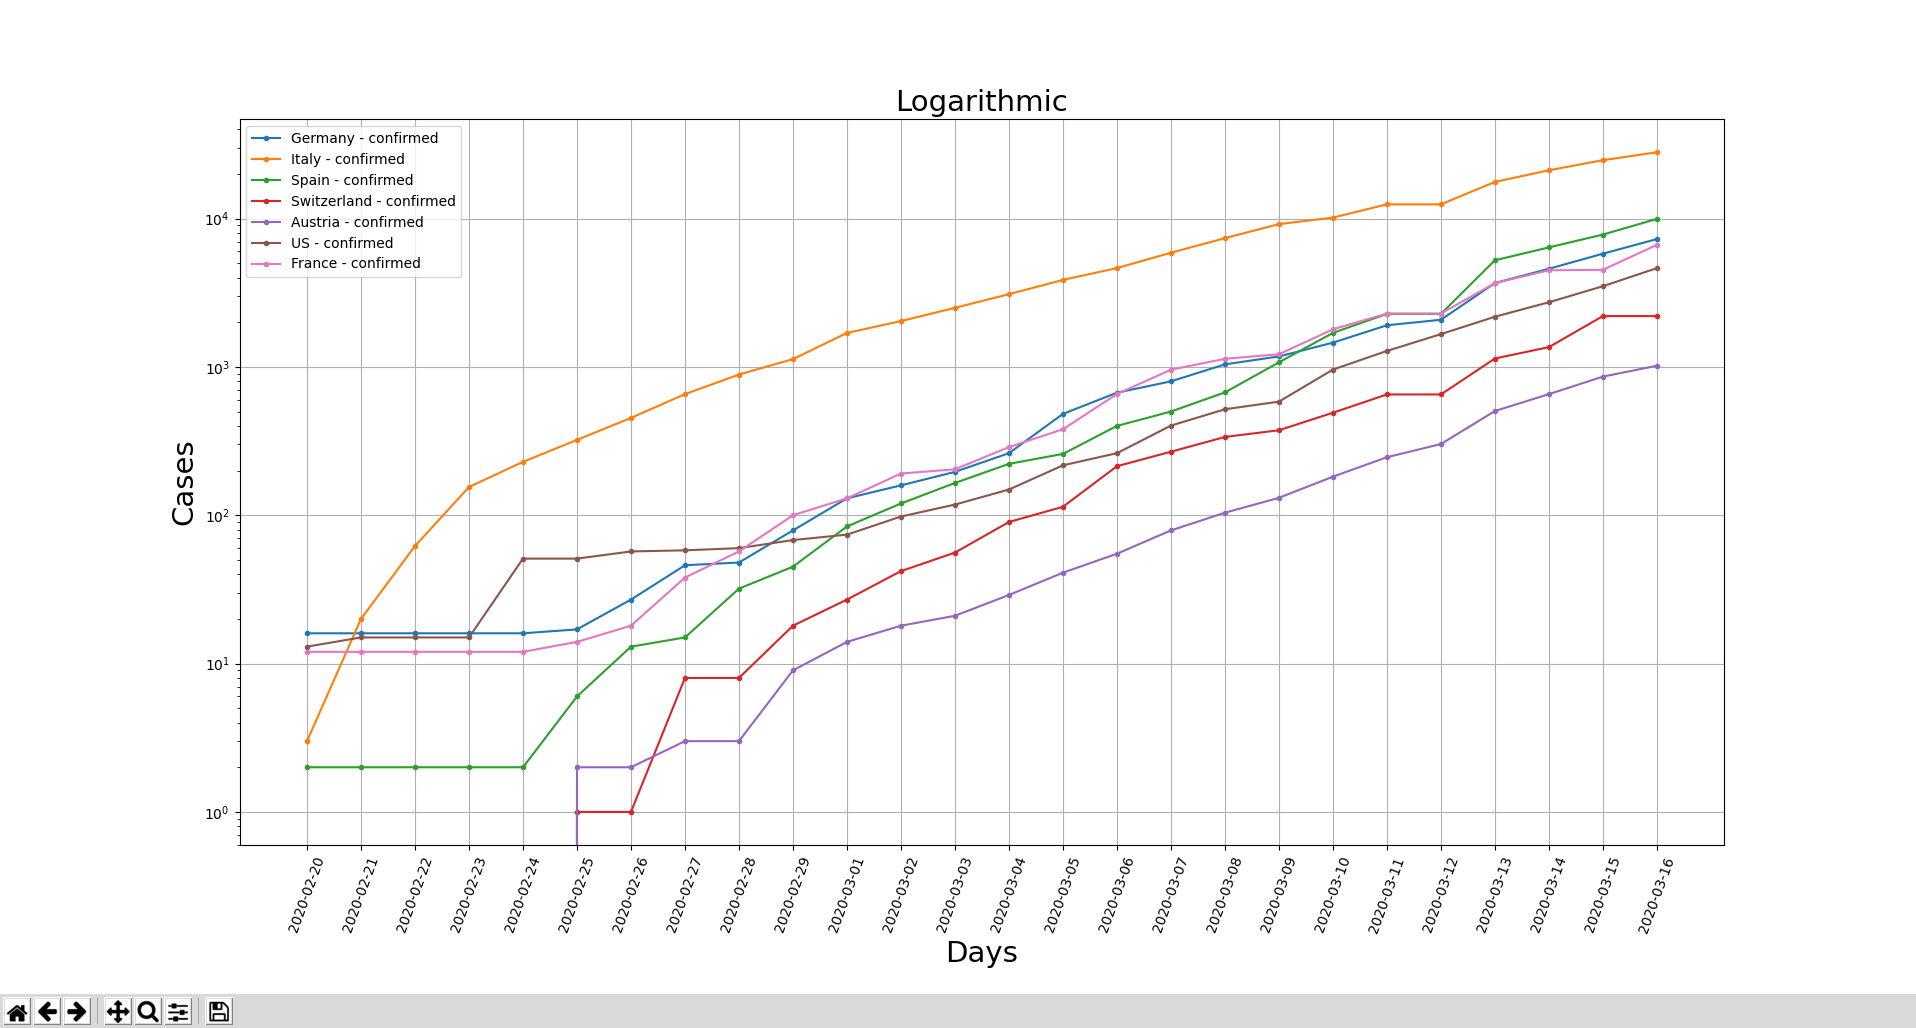
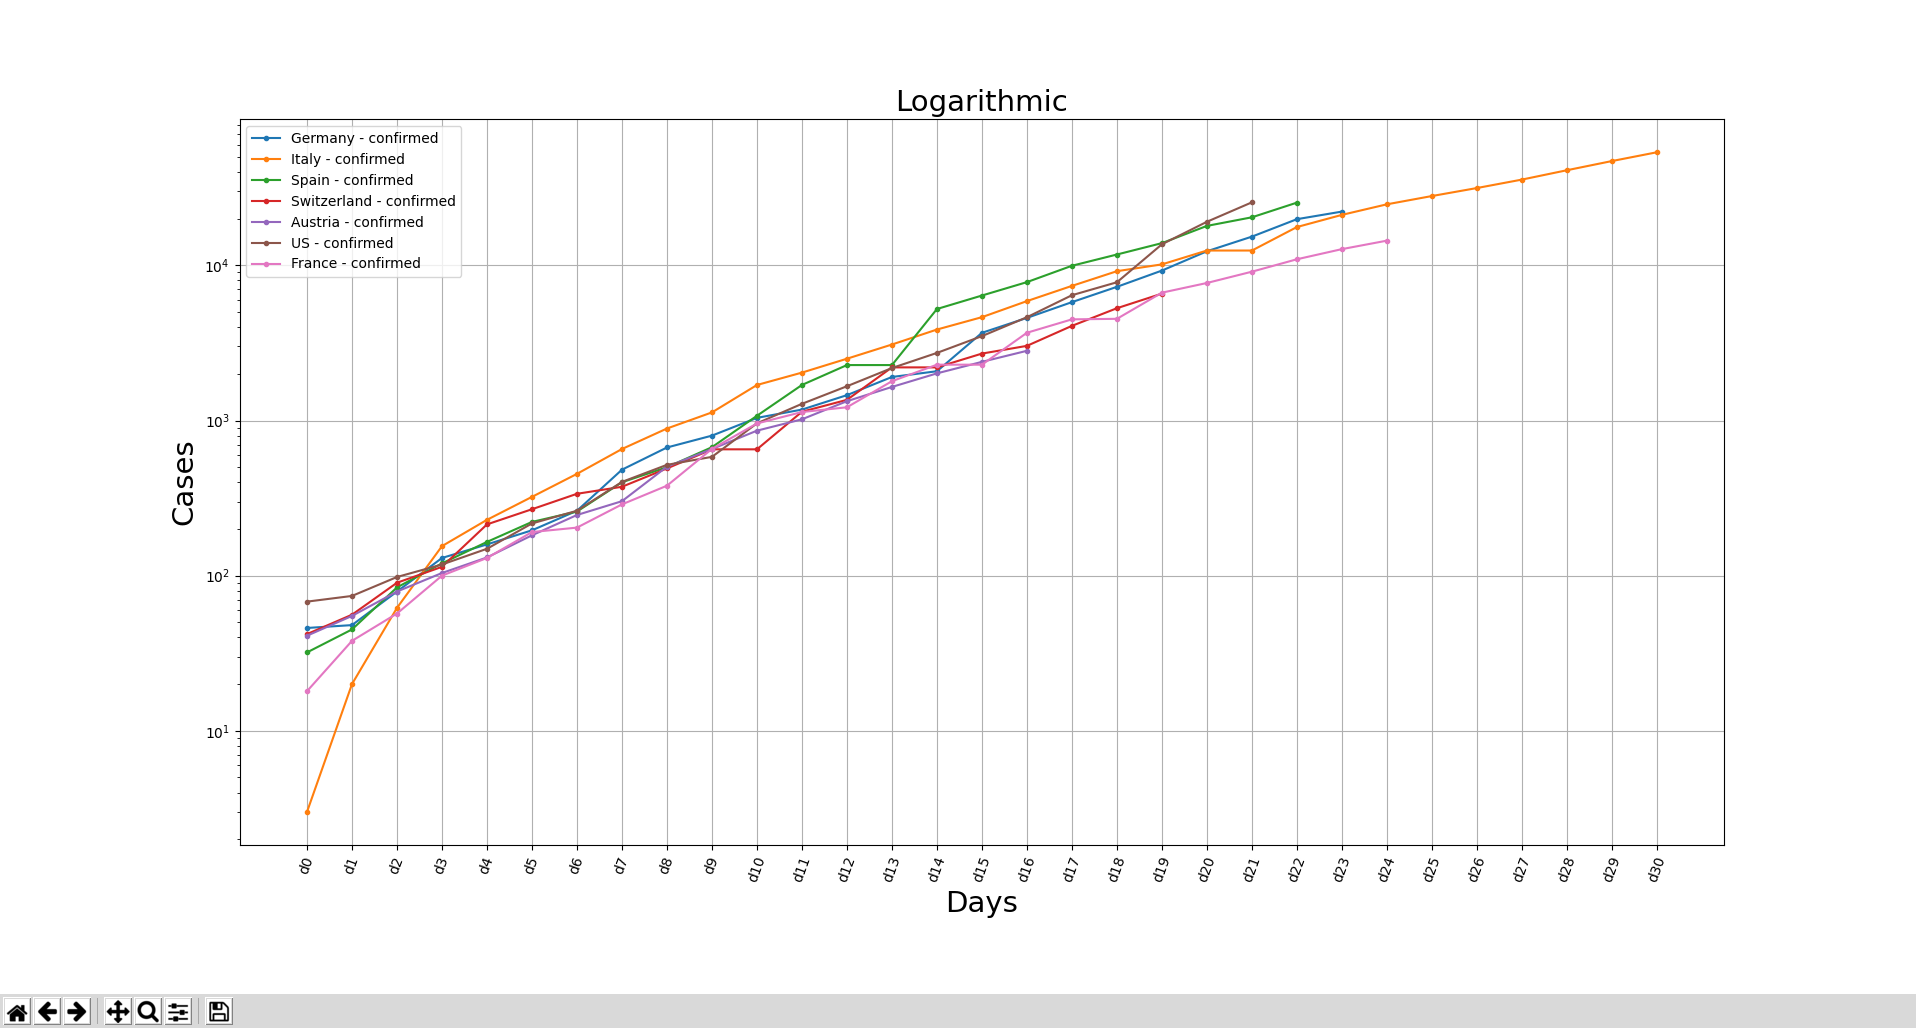
feat: add --relative for showing cases per 100000 residents

diff --git a/covid_19_plot.py b/covid_19_plot.py
@@ -19,7 +19,15 @@ CSV_PATHS = {
     "deaths": f"{CSV_DIR}/time_series_19-covid-Deaths.csv",
     "recovered": f"{CSV_DIR}/time_series_19-covid-Recovered.csv",
 }
+POP_CSV = f"{DIR_PATH}/data/population.csv"
 COMPARE_CONSTANT = 100
+
+POPULATION = {}
+
+with open(POP_CSV) as csvfile:
+    reader = csv.DictReader(csvfile)
+    for row in reader:
+        POPULATION[row["Country"]] = int(row["Value"])
 
 
 def group(number):
@@ -83,6 +91,12 @@ def parse_arguments(args):
         help="show graph for each province/state",
     )
     parser.add_argument(
+        "-e",
+        "--relative",
+        action="store_true",
+        help="show cases per 100'000 residents (only supported for some countries)",
+    )
+    parser.add_argument(
         "--list-countries", action="store_true", help="list available countries/regions"
     )
     args = parser.parse_args(args)
@@ -95,16 +109,19 @@ def parse_arguments(args):
     if args.compare and not args.confirmed:
         raise parser.error("Comparison is only supported based on confirmed cases.")
 
+    if args.relative and args.split_by_state:
+        raise parser.error("--split-by-state with --relative is not supported.")
+
     return args
 
 
-def get_data_from_file(file, countries, split_by_state, startdate):
+def get_data_from_file(file, args):
     data = {}
     with open(file) as csvfile:
         reader = csv.DictReader(csvfile)
         for row in reader:
             area = row["Country/Region"].strip()
-            if area in countries:
+            if area in args.countries:
                 state = row.pop("Province/State").strip()
                 country = row.pop("Country/Region").strip()
                 row.pop("Lat")
@@ -115,16 +132,21 @@ def get_data_from_file(file, countries, split_by_state, startdate):
                     # can't use strptime with non-padded month
                     month, day, year = date.split("/")
                     date = datetime.date(int(f"20{year}"), int(month), int(day))
-                    if startdate and date < startdate:
+                    if args.startdate and date < args.startdate:
                         continue
                     x.append(date)
-                    y.append(int(count))
-                if split_by_state:
+                    y_value = int(count)
+                    if args.relative:
+                        if area not in POPULATION:
+                            raise Exception(f'"{area}" not found in population.csv!')
+                        y_value = y_value / (POPULATION[area] / 100000)
+                    y.append(y_value)
+                if args.split_by_state:
                     if state:
                         area = f"{country} - {state}"
                 if area not in data:
                     data[area] = {}
-                if not data[area] or split_by_state:
+                if not data[area] or args.split_by_state:
                     data[area] = {"x": x, "y": y}
                     continue
                 for ct, i in enumerate(y):
@@ -132,7 +154,7 @@ def get_data_from_file(file, countries, split_by_state, startdate):
     return data
 
 
-def get_data(countries, args):
+def get_data(args):
     """
     Collects data from CSVs
 
@@ -159,21 +181,15 @@ def get_data(countries, args):
     data = {}
 
     if args.confirmed:
-        sub_data = get_data_from_file(
-            CSV_PATHS["confirmed"], countries, args.split_by_state, args.startdate
-        )
+        sub_data = get_data_from_file(CSV_PATHS["confirmed"], args)
         add_to_data(sub_data, "confirmed")
 
     if args.deaths:
-        sub_data = get_data_from_file(
-            CSV_PATHS["deaths"], countries, args.split_by_state, args.startdate
-        )
+        sub_data = get_data_from_file(CSV_PATHS["deaths"], args)
         add_to_data(sub_data, "deaths")
 
     if args.recovered:
-        sub_data = get_data_from_file(
-            CSV_PATHS["recovered"], countries, args.split_by_state, args.startdate
-        )
+        sub_data = get_data_from_file(CSV_PATHS["recovered"], args)
         add_to_data(sub_data, "recovered")
 
     return data
@@ -264,7 +280,10 @@ def setup_plot(args):
         plt.title("Logarithmic", fontdict=font)
 
     plt.xlabel("Days", fontdict=font)
-    plt.ylabel("Cases", fontdict=font)
+    cases_suffix = ""
+    if args.relative:
+        cases_suffix = " per 100'000"
+    plt.ylabel(f"Cases{cases_suffix}", fontdict=font)
 
 
 def plot(data, meta, args):
@@ -302,7 +321,7 @@ def plot(data, meta, args):
             if args.annotate:
                 for ct, i in enumerate(area_category_data["y"]):
                     plt.annotate(
-                        group(i),
+                        group(round(i)),
                         (area_category_data["x"][ct], i),
                         bbox=dict(facecolor="white", alpha=0.30),
                     )
@@ -323,7 +342,7 @@ def main():
         print("\n".join(get_countries()))
         sys.exit(0)
 
-    data = get_data(args.countries, args)
+    data = get_data(args)
 
     if not data:
         print(

diff --git a/README.md b/README.md
@@ -41,7 +41,9 @@ pip install PyQt5
 ## Usage
 
 ```
-usage: covid_19_plot.py [-h] [-l] [-c] [-d] [-r] [-a] [-s STARTDATE] [-m] [--annotate] [--split-by-state] [--list-countries] [countries [countries ...]]
+usage: covid_19_plot.py [-h] [-l] [-c] [-d] [-r] [-a] [-s STARTDATE] [-m] [--annotate]
+                        [--split-by-state] [-e] [--list-countries]
+                        [countries [countries ...]]
 
 positional arguments:
   countries             List of countries/regions (defaults to Switzerland)
@@ -55,9 +57,10 @@ optional arguments:
   -a, --all             include all
   -s STARTDATE, --startdate STARTDATE
                         plot data past given date - format YYYY-MM-DD
-  -m, --compare         match x-axis of multiple countries
+  -m, --compare         match x-axis of multiple countries (matches the data points closest to 100 cases
   --annotate            add annotation to data points
   --split-by-state      show graph for each province/state
+  -e, --relative        show cases per 100'000 residents (only supported for some countries)
   --list-countries      list available countries/regions
 ```
 
@@ -81,6 +84,13 @@ optional arguments:
 ```
 
 ![screenshot](screenshots/screen2.png)
+
+```shell
+./covid_19_plot.py --compare --relative Switzerland Italy Germany US France China Spain
+```
+
+![screenshot](screenshots/screen3.png)
+
 
 ```shell
 ./covid_19_plot.py --annotate --startdate 2020-02-20 Switzerland Italy Spain France US
